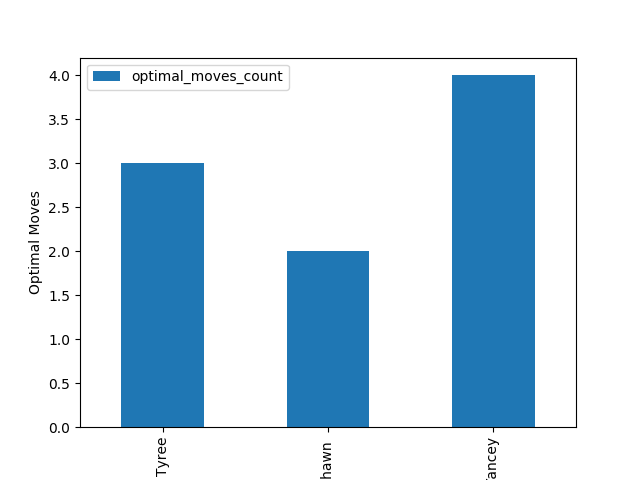
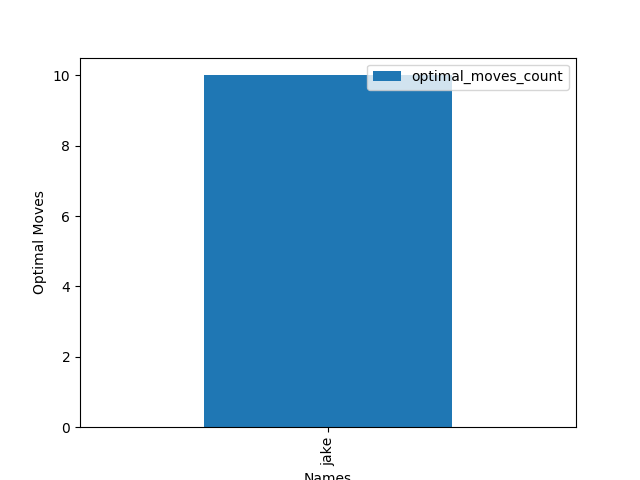
Reformatted data vis file to work with player.csv

diff --git a/datavisualizations.py b/datavisualizations.py
@@ -39,7 +39,7 @@ def create_visualizations(dataframe):
 
 
 def main():
-	dataframe = read_in_csv('CSVFolder/mock_player_data.csv')
+	dataframe = read_in_csv('CSVFolder/player.csv')
 	create_visualizations(dataframe)
 	print(dataframe.head())
 
